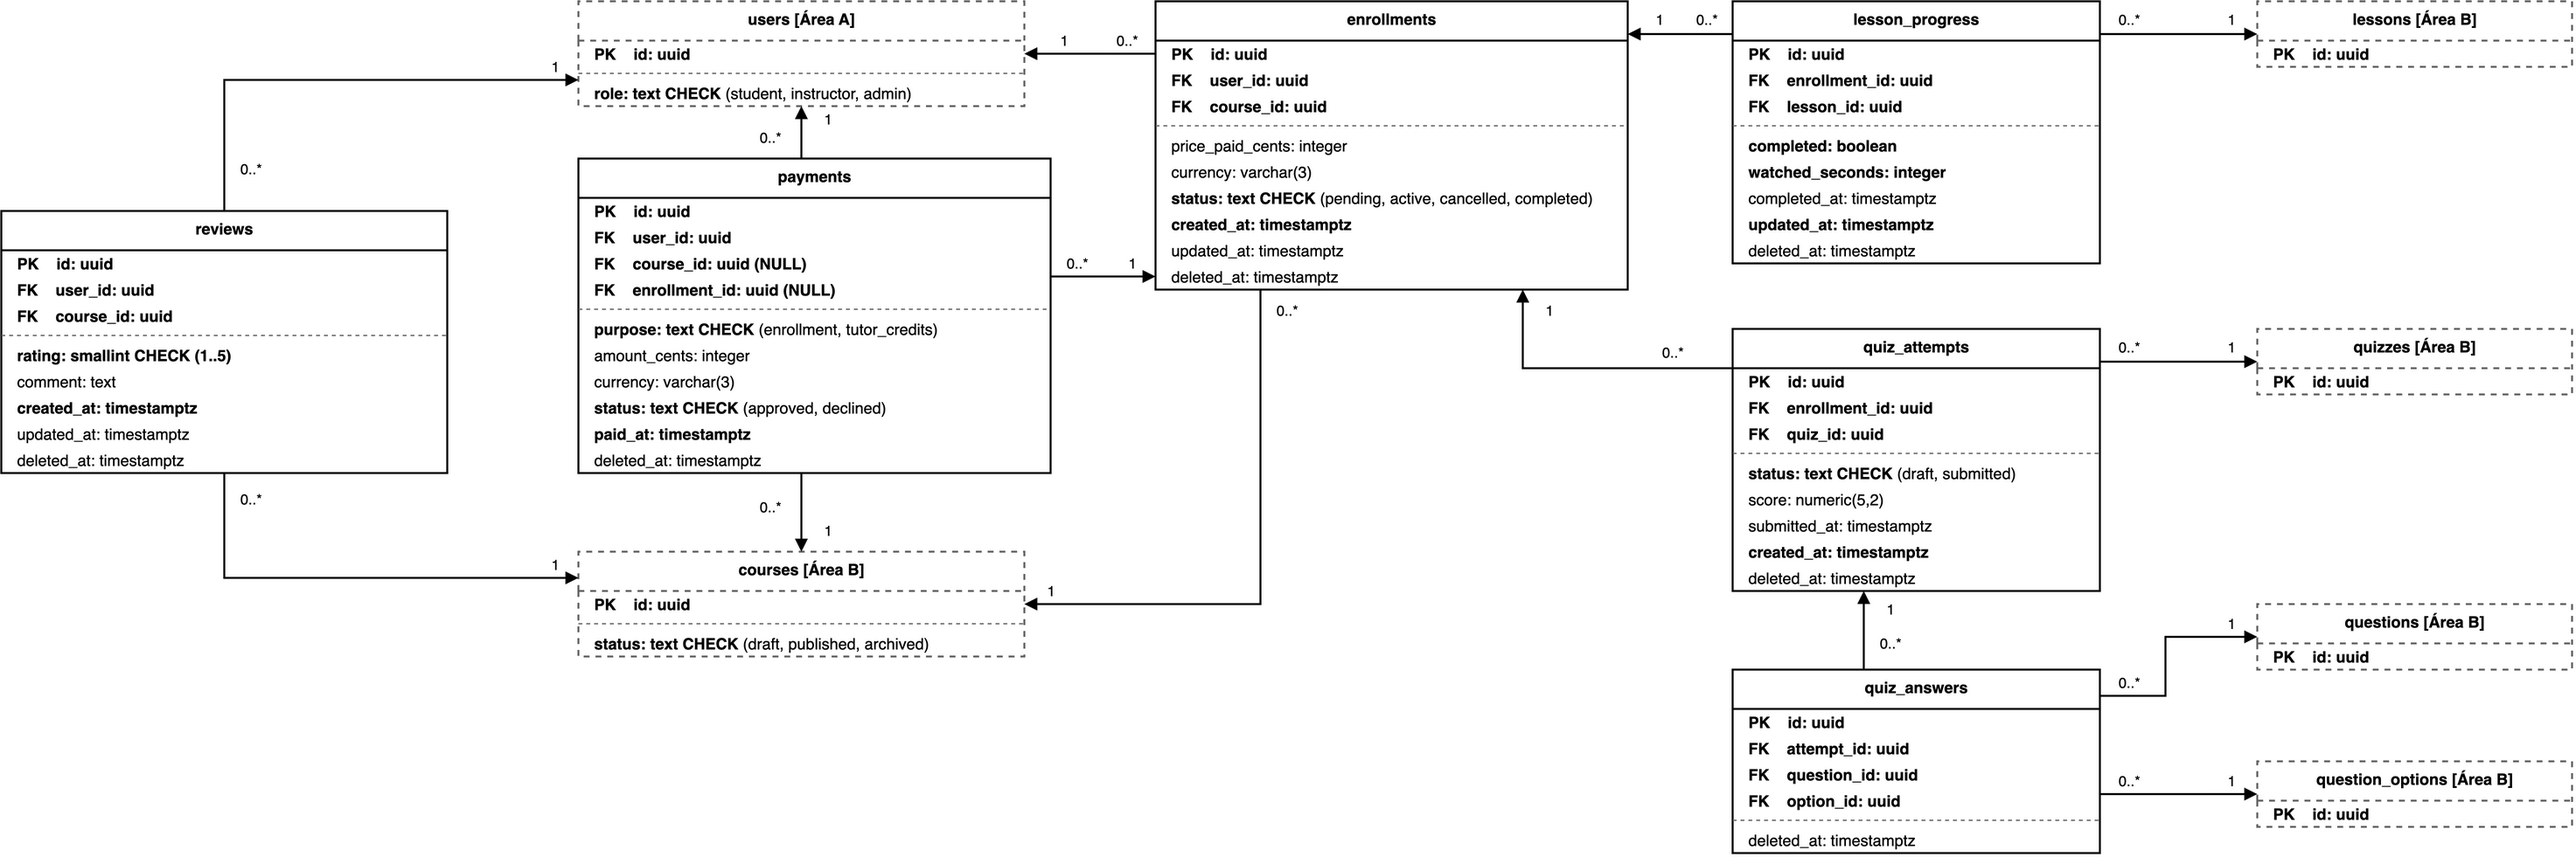
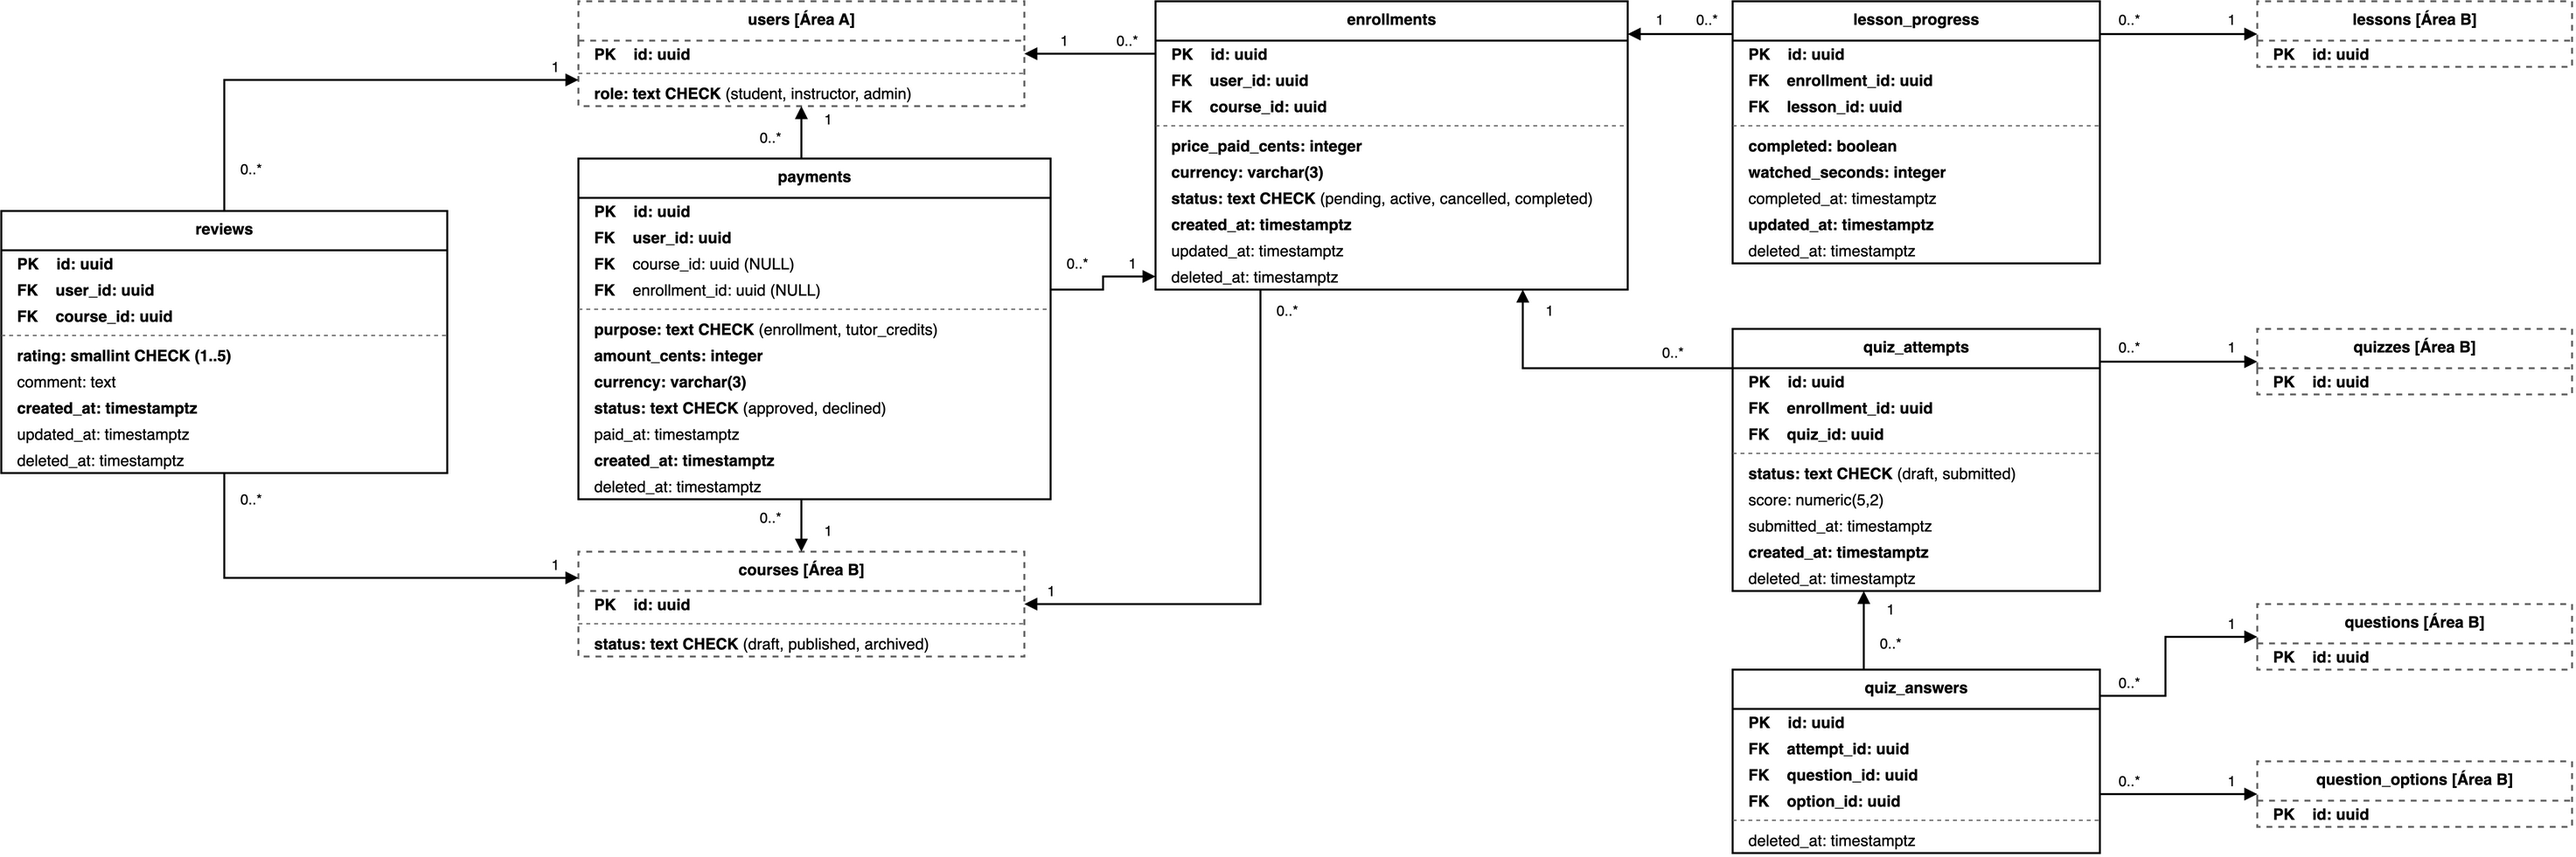
fix(area-c): add payments created_at and correct column nullability bolding
Add created_at timestamptz NOT NULL to payments table in the data dictionary
and data model diagram, and correct the mandatory bold styling for nullable
and not-null columns in payments and enrollments (#135 C33).

diff --git a/especificacao/12-modelo-de-dados/area-c.md b/especificacao/12-modelo-de-dados/area-c.md
@@ -9,7 +9,7 @@ Tabelas que sustentam a matrícula do aluno, o processamento de pagamento simula
 Decisões do modelo:
 
 - **Ciclo de vida da matrícula (`enrollments.status`):** estrutura formalmente o ciclo nos valores `pending`, `active`, `cancelled` e `completed` via restrição `CHECK` (UC003, UC019; US007, US018). Em curso gratuito, a matrícula nasce diretamente com status `active` (UC003 R-4). Em curso pago, nasce como `pending` e passa a `active` somente após a confirmação e aprovação do pagamento simulado (UC003 R-3, UC019). A tabela possui índice único parcial sobre `(user_id, course_id) WHERE deleted_at IS NULL`, impedindo matrículas ativas duplicadas para o mesmo curso (UC003 R-2, UC019 E3); a regra vale só para registros não excluídos logicamente (ADR-0014).
-- **Pagamento simulado e compras de tutor (`payments`):** materializa o registro transacional do pagamento simulado (ADR-0007), sem campos de cartão de crédito, dados bancários ou `payoutInfo`. Armazena o valor (`amount_cents`), moeda (`currency`), finalidade (`purpose`: `enrollment` ou `tutor_credits`, conforme RF020 e RNF022), data (`paid_at`), e referências ao aluno (`user_id`), curso (`course_id`, opcional se avulso) e matrícula associada (`enrollment_id`, opcional/nulo quando o pagamento for para pacote de créditos do tutor de IA fora de matrícula direta). Relação: uma `enrollments` possui 0..* `payments` (tentativas recusadas e aprovadas ficam registradas). O campo `status` recebe `approved` ou `declined`: em caso de recusa (UC019 E1), o registro é persistido para auditoria e a matrícula permanece `pending`, sem liberação do acesso às aulas.
+- **Pagamento simulado e compras de tutor (`payments`):** materializa o registro transacional do pagamento simulado (ADR-0007), sem campos de cartão de crédito, dados bancários ou `payoutInfo`. Armazena o valor (`amount_cents`), moeda (`currency`), finalidade (`purpose`: `enrollment` ou `tutor_credits`, conforme RF020 e RNF022), data de criação (`created_at: timestamptz NOT NULL`), data de confirmação (`paid_at`, preenchida quando aprovado), e referências ao aluno (`user_id`), curso (`course_id`, opcional se avulso) e matrícula associada (`enrollment_id`, opcional/nulo quando o pagamento for para pacote de créditos do tutor de IA fora de matrícula direta). Relação: uma `enrollments` possui 0..* `payments` (tentativas recusadas e aprovadas ficam registradas). O campo `status` recebe `approved` ou `declined`: em caso de recusa (UC019 E1), o registro é persistido para auditoria e a matrícula permanece `pending`, sem liberação do acesso às aulas.
 - **Progresso contínuo de aulas (`lesson_progress`):** registra os segundos assistidos (`watched_seconds`) e a conclusão (`completed`) de cada aula pelo aluno matriculado, desacoplado do quiz (atendendo à análise do professor sobre o fluxo de progresso e regras R-4 e R-5 do UC009). Permite retomar a reprodução no ponto exato em que o aluno parou (UC009 A2), persistido independentemente do dispositivo utilizado (UC009 R-3). Possui índice único parcial sobre `(enrollment_id, lesson_id) WHERE deleted_at IS NULL`, de modo que cada aula tem um único registro de progresso por matrícula.
 - **Tentativas e respostas de quizzes (`quiz_attempts` e `quiz_answers`):** registram o histórico de submissão do quiz vinculado à matrícula (`enrollment_id`) e as respostas assinaladas para cada questão (`quiz_answers`). A nota calculada imediatamente por comparação com o gabarito é armazenada em `score` (UC002 R-2): acertos divididos pelo total de questões, multiplicados por 100, em escala `numeric(5,2)` de 0,00 a 100,00, arredondada a 2 casas decimais (meio para cima). A interface exibe a nota inteira seguida de %, por exemplo 67% para 66,67. `quiz_attempts.status` recebe `draft` (rascunho, UC002 A2, quando o aluno salva respostas parciais) ou `submitted` (enviada); enquanto estiver em `draft`, `score` e `submitted_at` permanecem nulos, e o gabarito jamais é retornado pela API antes da submissão (UC002 R-4). Se o instrutor permitir refazer o quiz (UC002 A1, R-3), uma nova tentativa (`quiz_attempts`) é gerada, mantendo o histórico de tentativas anteriores inalterado (UC004 R-2).
 - **Avaliação de cursos (`reviews`):** consolida a nota de 1 a 5 (`rating: smallint CHECK (rating BETWEEN 1 AND 5)`) e o comentário opcional (`comment: text`) do aluno sobre o curso (UC010 R-3). Exige como pré-requisito de negócio a conclusão de ao menos uma aula no curso (UC010 R-1). Possui índice único parcial sobre `(user_id, course_id) WHERE deleted_at IS NULL`: cada aluno mantém exatamente uma avaliação por curso, de modo que uma nova avaliação substitui a anterior via `INSERT ... ON CONFLICT (user_id, course_id) DO UPDATE` (UC010 R-2, A1).
@@ -39,6 +39,7 @@ Decisões do modelo:
 | currency | Simples | varchar(3) | 3 | Código ISO 4217 da moeda (padrão 'BRL'). |
 | status | Simples | text CHECK | 20 | Status do pagamento: 'approved' ou 'declined' (UC019). |
 | paid_at | Simples | timestamptz | - | Data e hora do pagamento aprovado; nulo na recusa. |
+| created_at | Simples | timestamptz | - | Data e hora de criação da tentativa de pagamento (NOT NULL). |
 | deleted_at | Simples | timestamptz | - | Data e hora de exclusão lógica (nulo se ativo, ADR-0014). |
 | **Tabela: lesson_progress** | | | | |
 | id | Determinante | uuid | - | Identificador único do progresso da aula (PK). |
